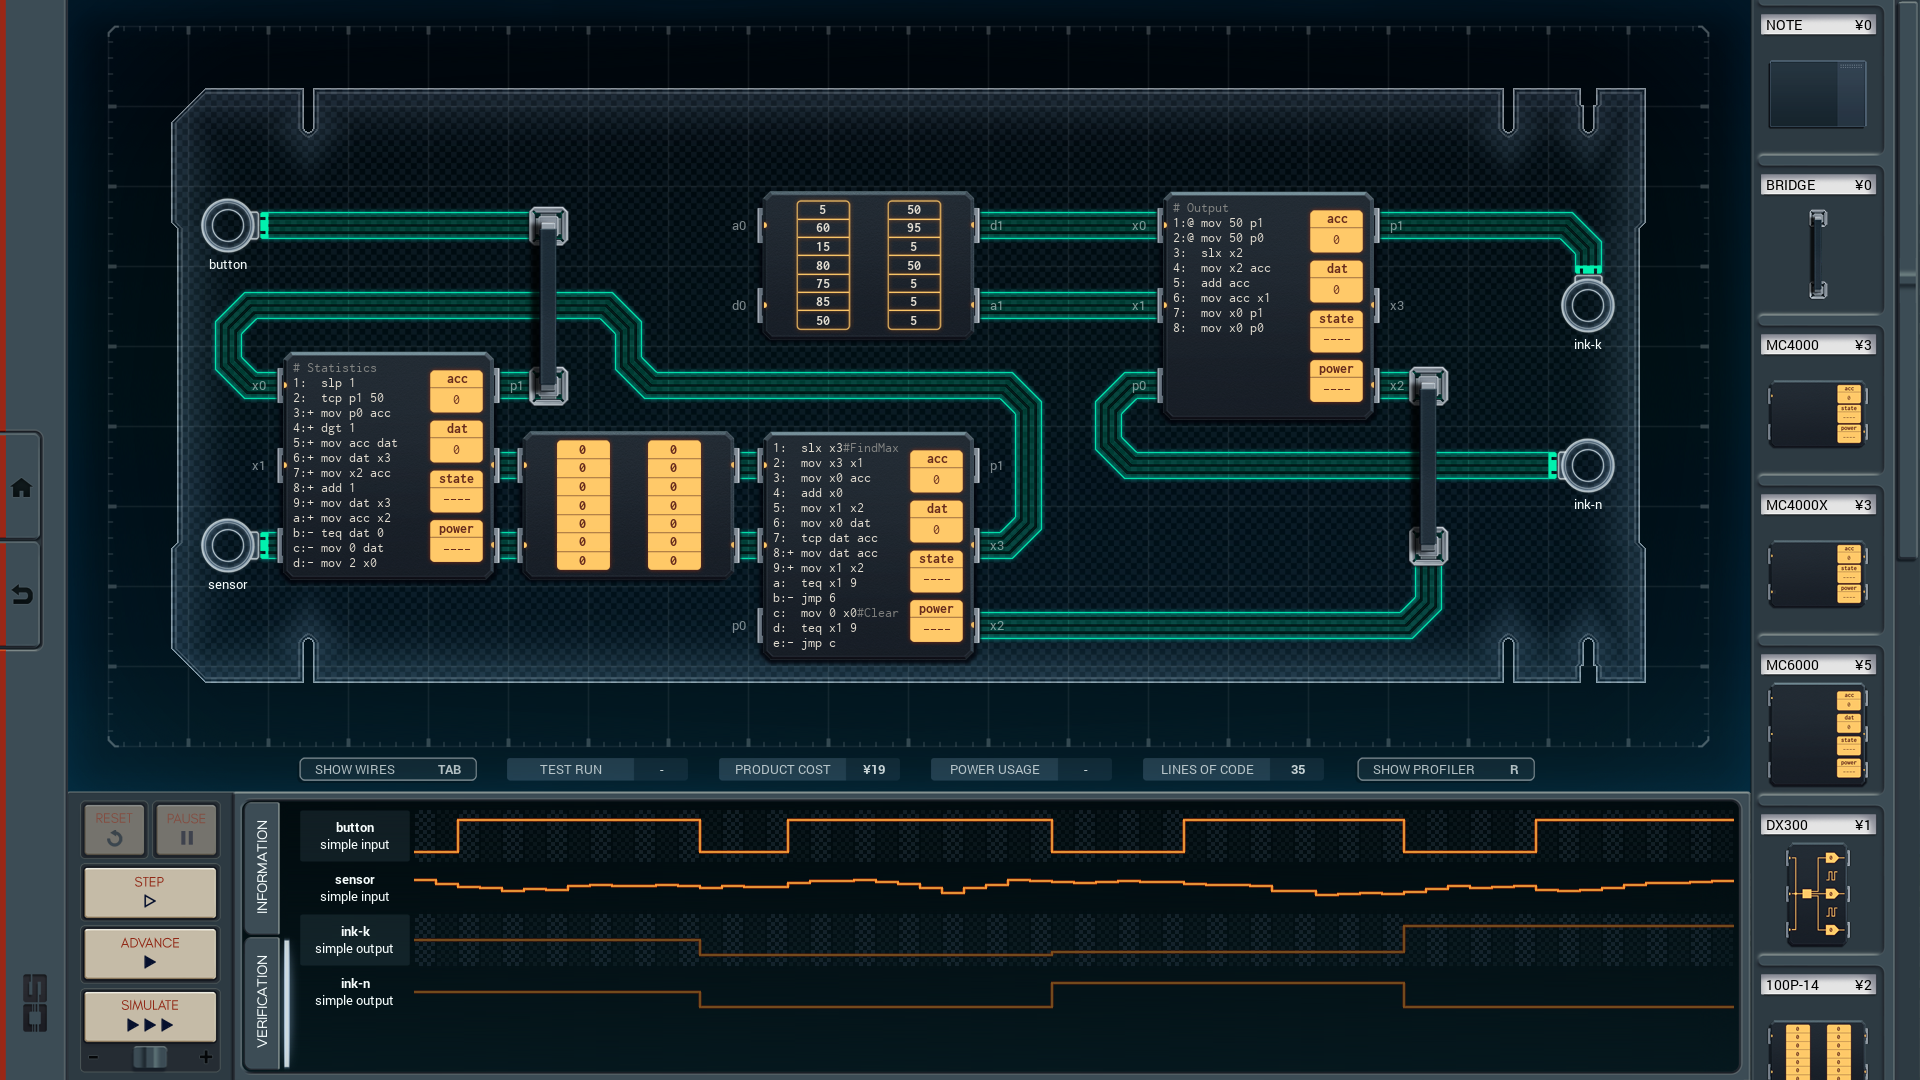
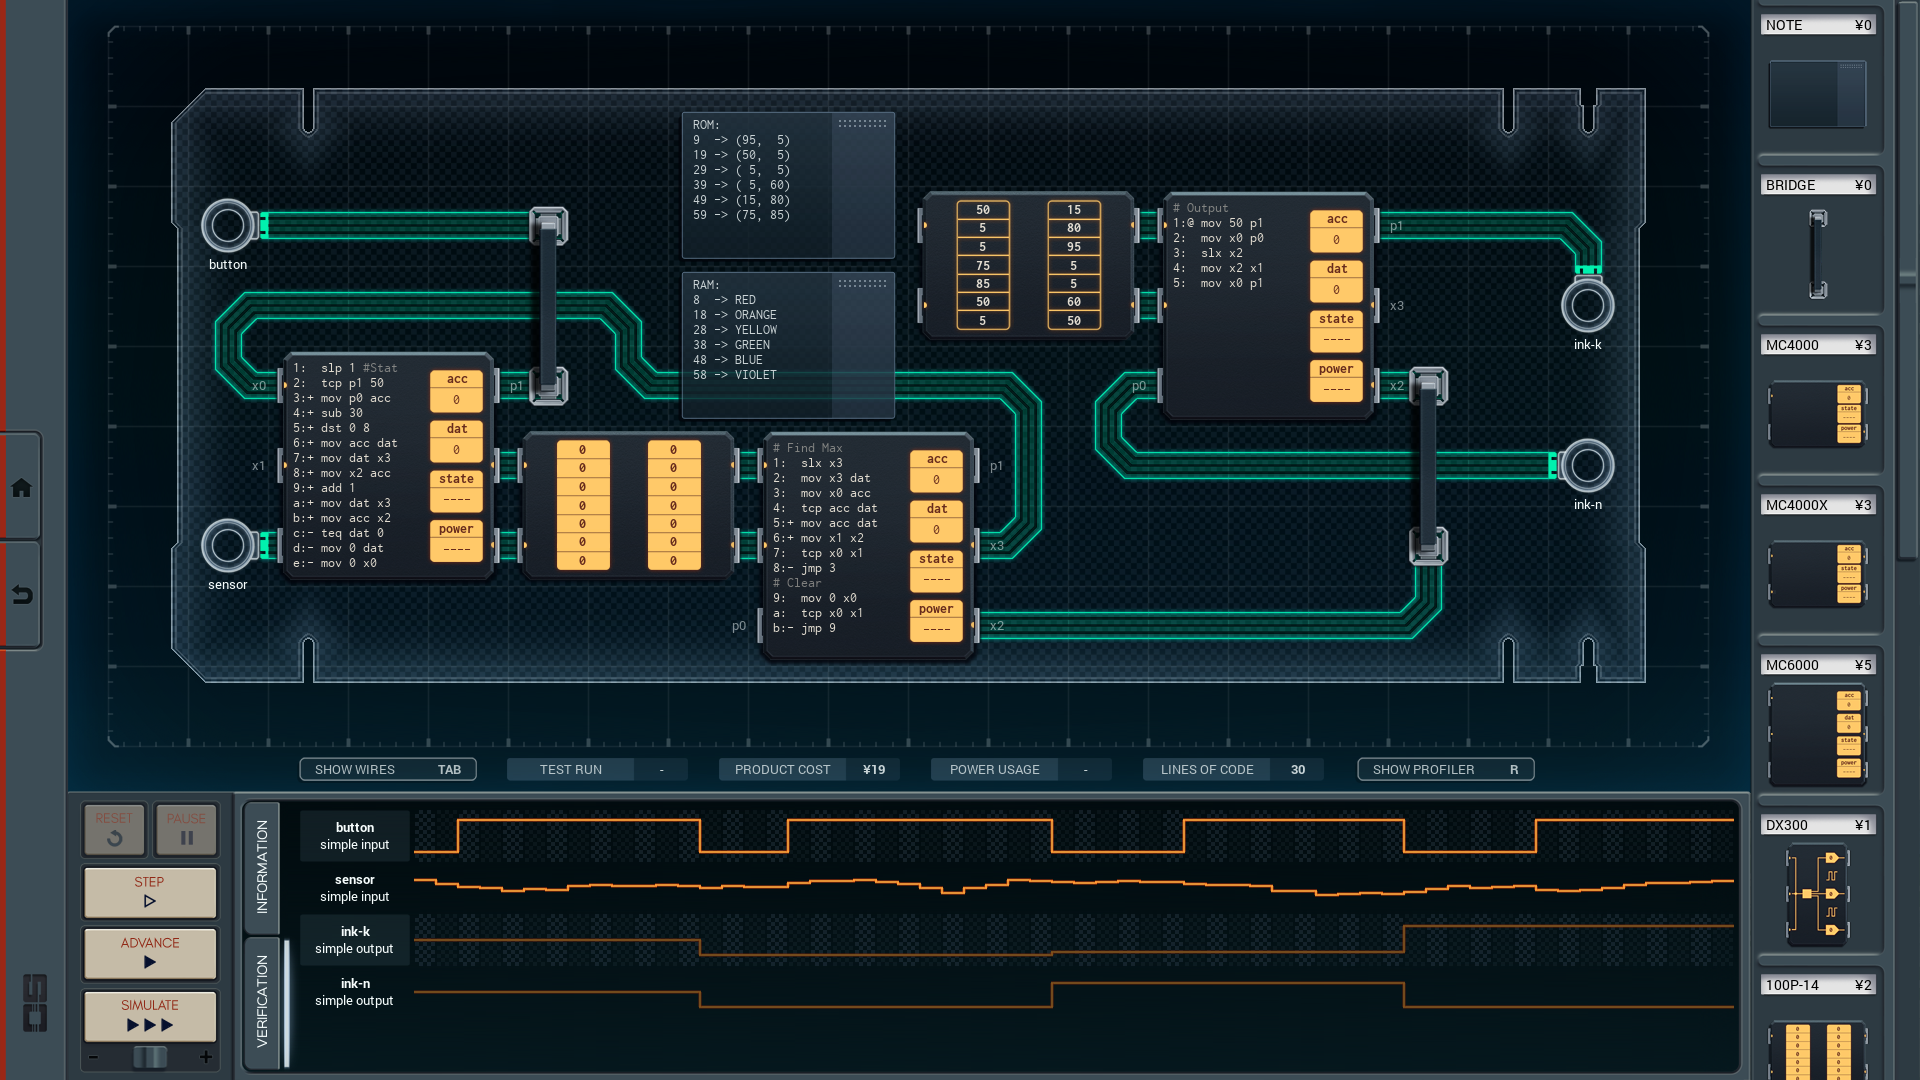
2022/09/16 Optimized the Color Coordinating Shoes solution [BEF] 19C / 852P / 35L [AFT] 19C / 794P / 30L

diff --git a/029-color-coordinating-shoes/README.md b/029-color-coordinating-shoes/README.md
@@ -1,4 +1,4 @@
-19/852/35 SOLUTION
+19/794/30 SOLUTION
 ------------------
 
 ![screenshot0](https://github.com/shiawasenahikari/Shenzhen-IO-Solutions/blob/master/029-color-coordinating-shoes/screenshot0.png)
